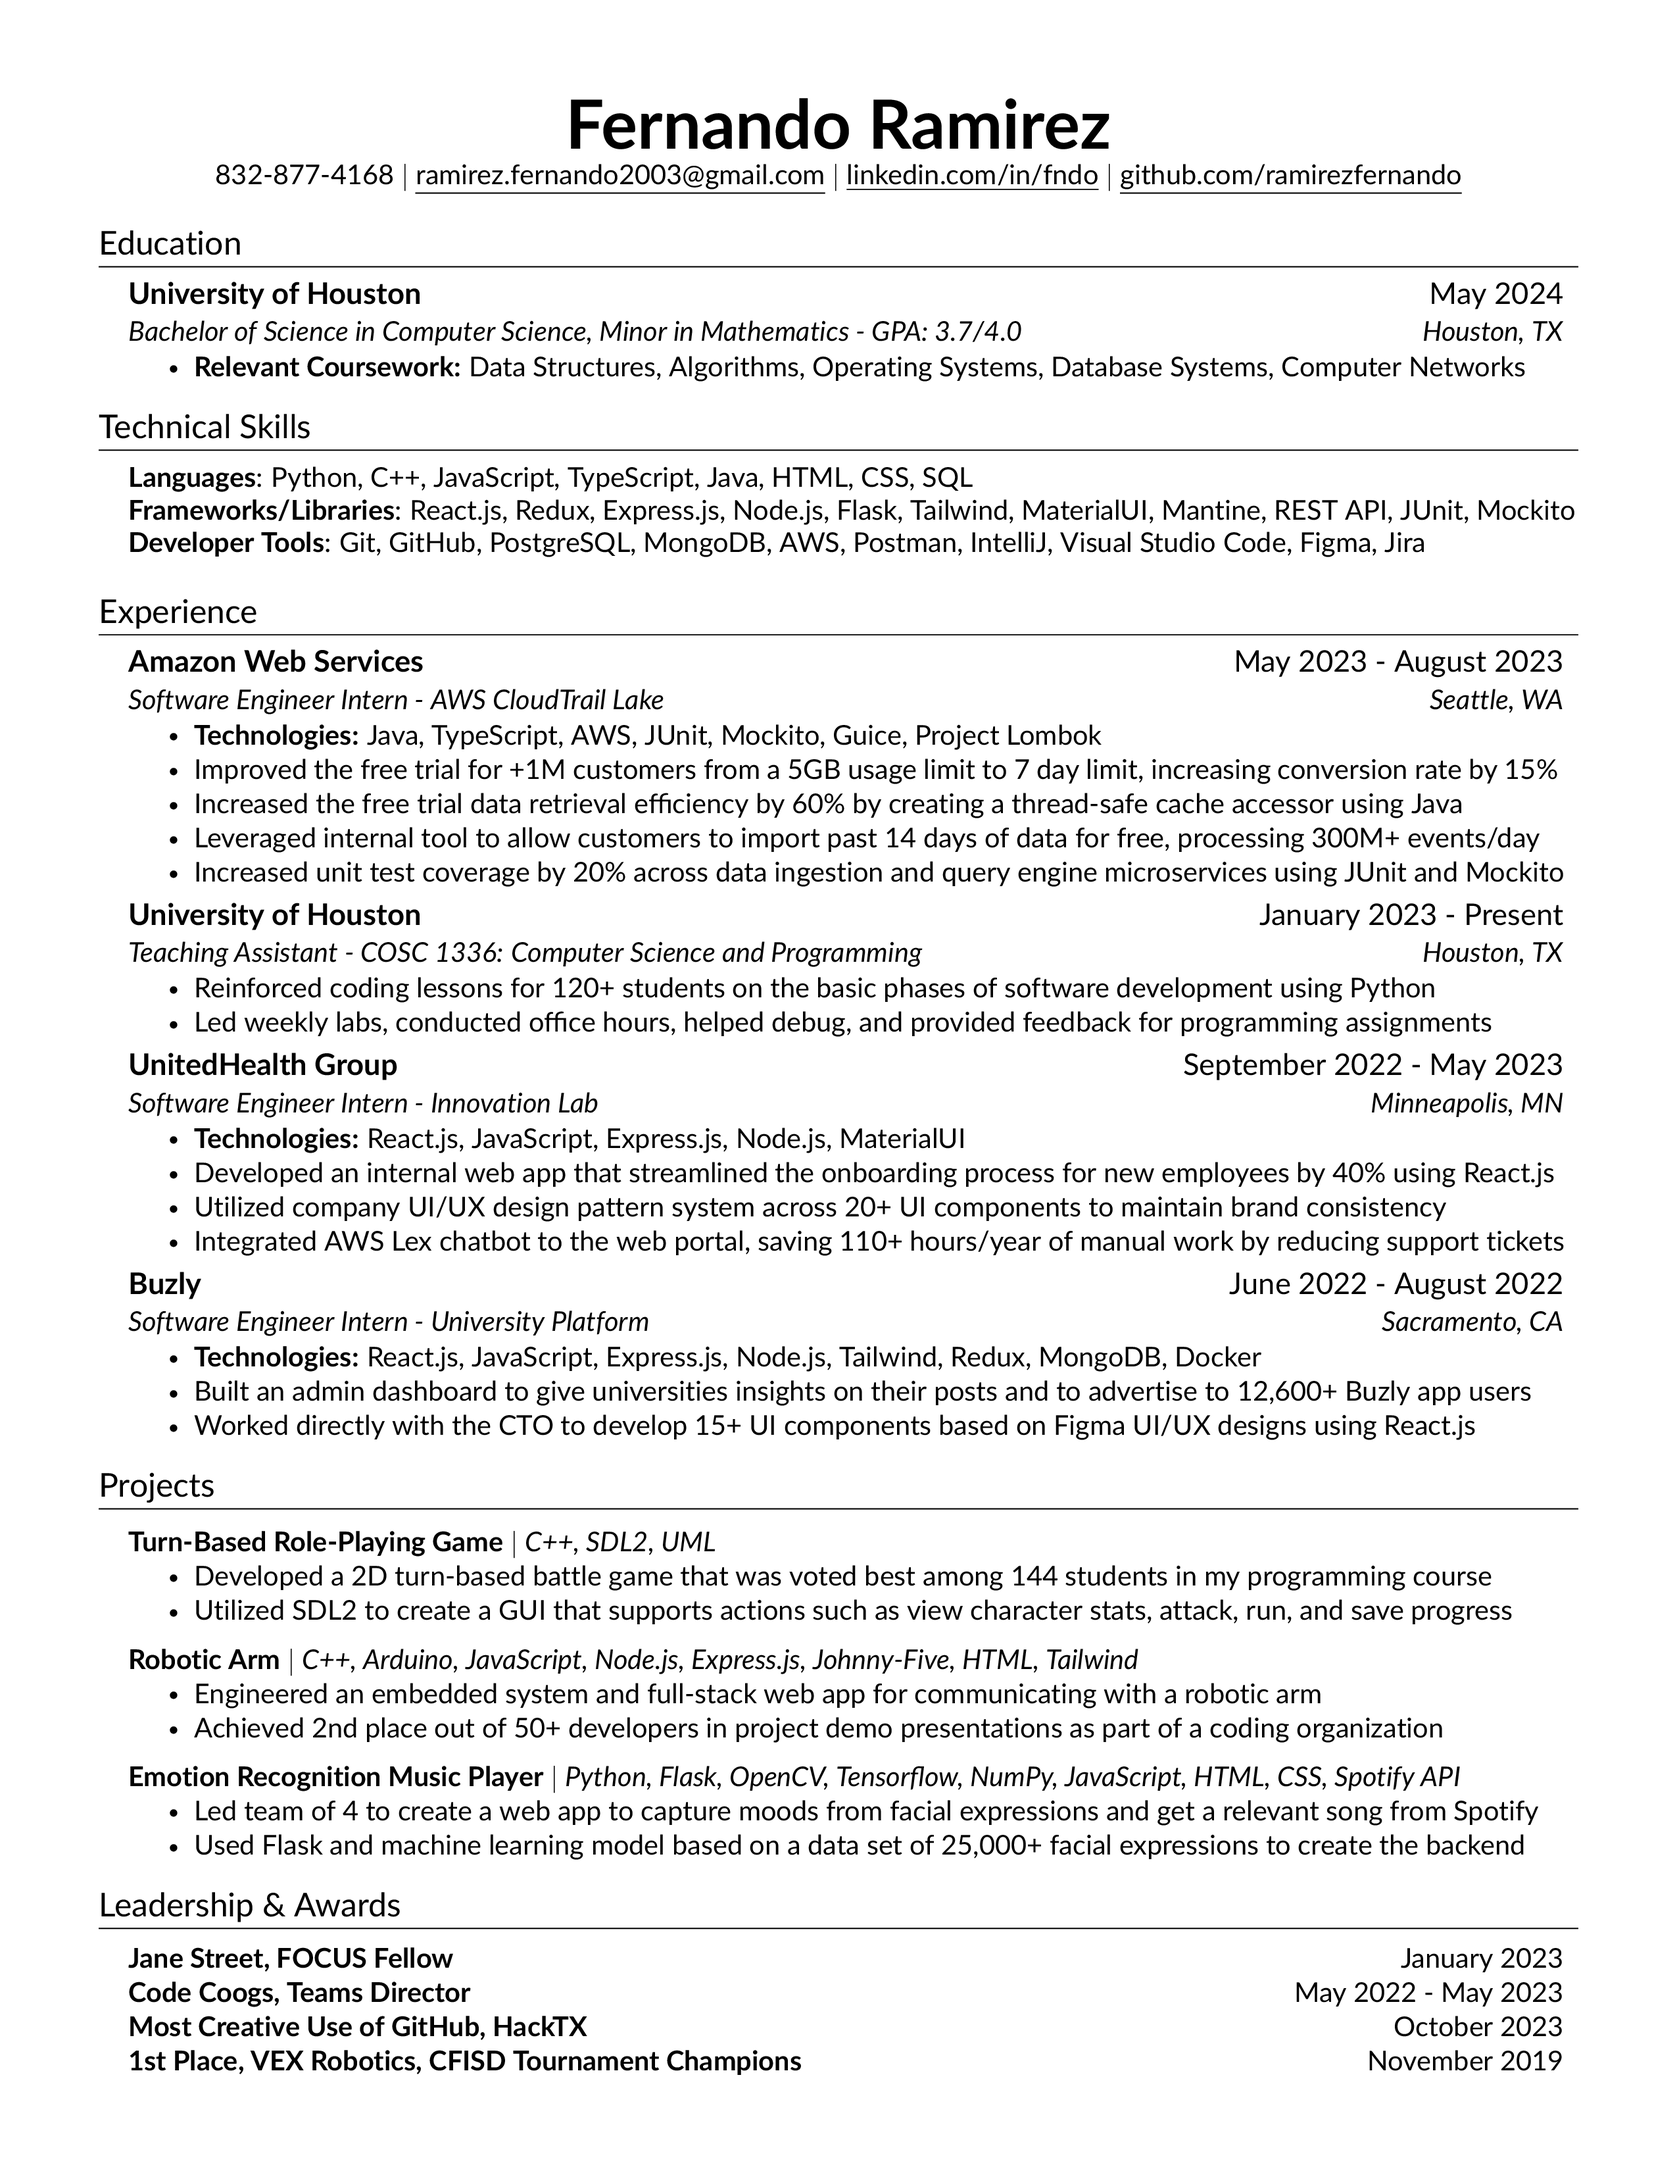
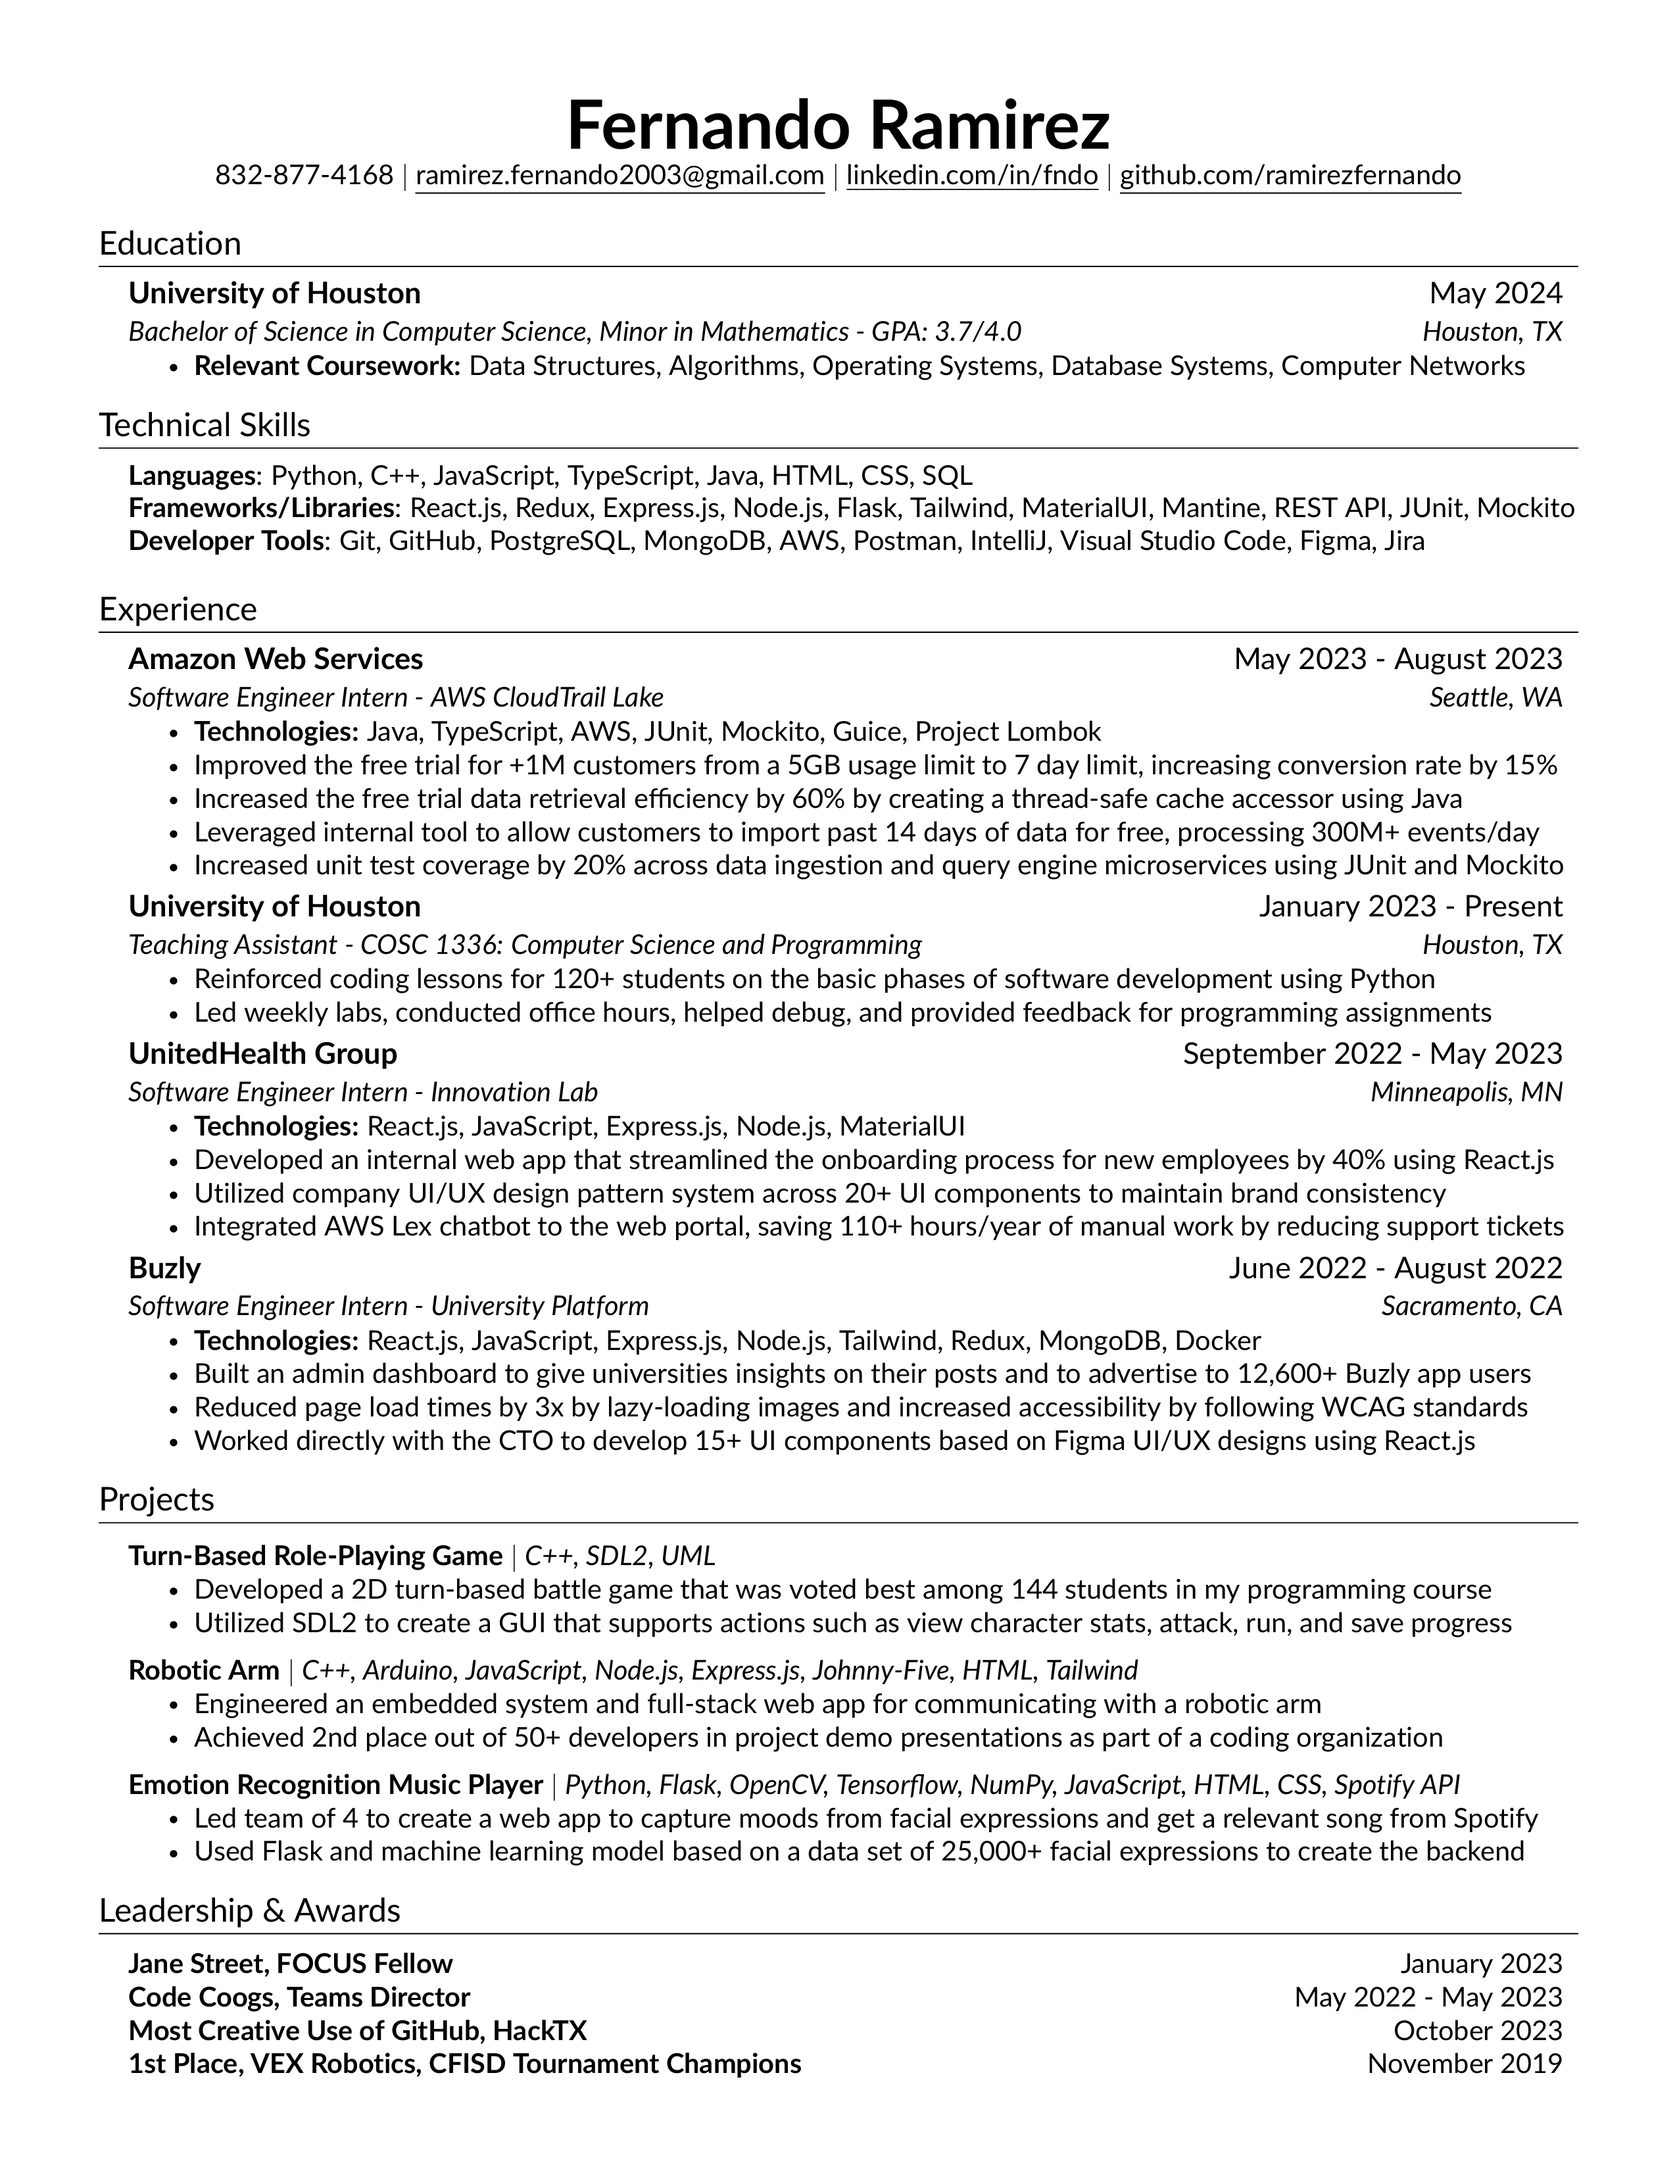
add bullet point to buzly experience

Changed region(s): [[0.062, 0.1873, 0.9294, 0.9676], [0.8984, 0.2185, 0.9294, 0.2497]]

diff --git a/src/components/experience.tex b/src/components/experience.tex
@@ -46,6 +46,8 @@
         
         \resumeItem{Built an admin dashboard to give universities insights on their posts and to advertise to 12,600+ Buzly app users} 
 
+        \resumeItem{Reduced page load times by 3x by lazy-loading images and increased accessibility by following WCAG standards} 
+
         \resumeItem{Worked directly with the CTO to develop 15+ UI components based on Figma UI/UX designs using React.js}         
     \resumeItemListEnd
 \resumeSubHeadingListEnd
